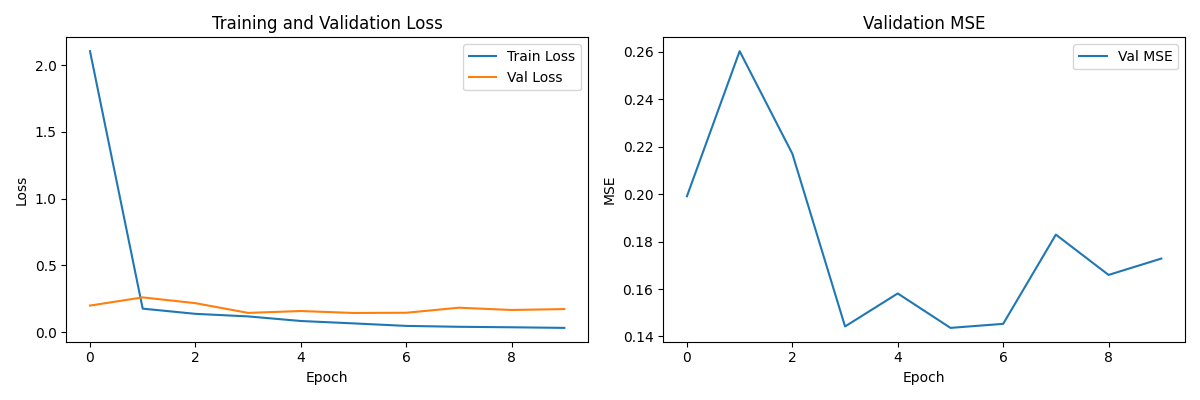
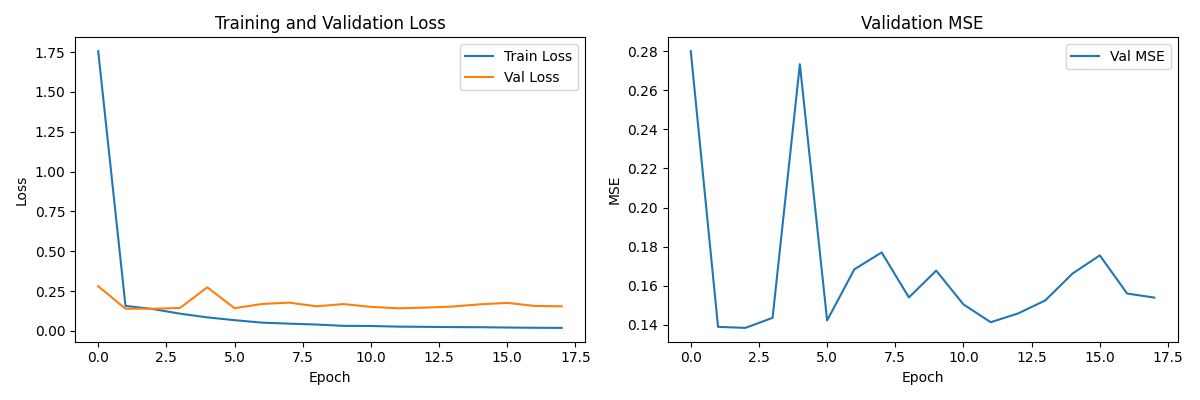
HyperParameter Tuning
Hyperparameter Tuning to try and reduce model prediction disparities, also added seed to 42 (random number) to reduce discrepancies in training multiple times

diff --git a/project/transfer_model.py b/project/transfer_model.py
@@ -9,10 +9,24 @@ from tqdm import tqdm
 import matplotlib.pyplot as plt
 from data_processor import DataProcessor
 
+# Force use of GPU
+os.environ["HIP_VISIBLE_DEVICES"] = "0"  # For AMD GPU
+os.environ["PYTORCH_HIP_ALLOC_CONF"] = "max_split_size_mb:512"
+torch.cuda.empty_cache()  # Clear GPU memory
+
+# Set fixed seed for reproducibility 
+np.random.seed(42)
+torch.manual_seed(42)
+if torch.cuda.is_available():
+    torch.cuda.manual_seed_all(42)
+
 # Set device with better AMD GPU support
 device = torch.device('cuda' if torch.cuda.is_available() else 
-                     ('rocm' if hasattr(torch, 'is_hip_available') and torch.is_hip_available() else 'cpu'))
+                     ('cuda' if hasattr(torch, 'is_hip_available') and torch.is_hip_available() else 'cpu'))
 print(f"Using device: {device}")
+if device.type == 'cuda' and torch.cuda.is_available():
+    print(f"GPU Name: {torch.cuda.get_device_name(0)}")
+    print(f"Memory Allocated: {torch.cuda.memory_allocated(0) / 1024**2:.2f} MB")
 
 class TransferModel:
     """

diff --git a/project/base_model.py b/project/base_model.py
@@ -9,10 +9,24 @@ from tqdm import tqdm
 import matplotlib.pyplot as plt
 from data_processor import DataProcessor
 
+# Force use of GPU
+os.environ["HIP_VISIBLE_DEVICES"] = "0"  # For AMD GPU
+os.environ["PYTORCH_HIP_ALLOC_CONF"] = "max_split_size_mb:512"
+torch.cuda.empty_cache()  # Clear GPU memory
+
+# Set fixed seed for reproducibility 
+np.random.seed(42)
+torch.manual_seed(42)
+if torch.cuda.is_available():
+    torch.cuda.manual_seed_all(42)
+
 # Set device with better AMD GPU support
 device = torch.device('cuda' if torch.cuda.is_available() else 
-                     ('rocm' if hasattr(torch, 'is_hip_available') and torch.is_hip_available() else 'cpu'))
+                     ('cuda' if hasattr(torch, 'is_hip_available') and torch.is_hip_available() else 'cpu'))
 print(f"Using device: {device}")
+if device.type == 'cuda' and torch.cuda.is_available():
+    print(f"GPU Name: {torch.cuda.get_device_name(0)}")
+    print(f"Memory Allocated: {torch.cuda.memory_allocated(0) / 1024**2:.2f} MB")
 
 class BaseModel:
     """

diff --git a/project/run_transfer_learning.py b/project/run_transfer_learning.py
@@ -6,6 +6,22 @@ import time
 import shutil
 import sys
 import nltk
+import torch
+import numpy as np
+import random
+
+# Force use of GPU
+os.environ["HIP_VISIBLE_DEVICES"] = "0"  # For AMD GPU
+os.environ["PYTORCH_HIP_ALLOC_CONF"] = "max_split_size_mb:512"
+if torch.cuda.is_available():
+    torch.cuda.empty_cache()  # Clear GPU memory
+
+# Set fixed seed for reproducibility 
+random.seed(42)
+np.random.seed(42)
+torch.manual_seed(42)
+if torch.cuda.is_available():
+    torch.cuda.manual_seed_all(42)
 
 nltk.download('punkt_tab')
 
